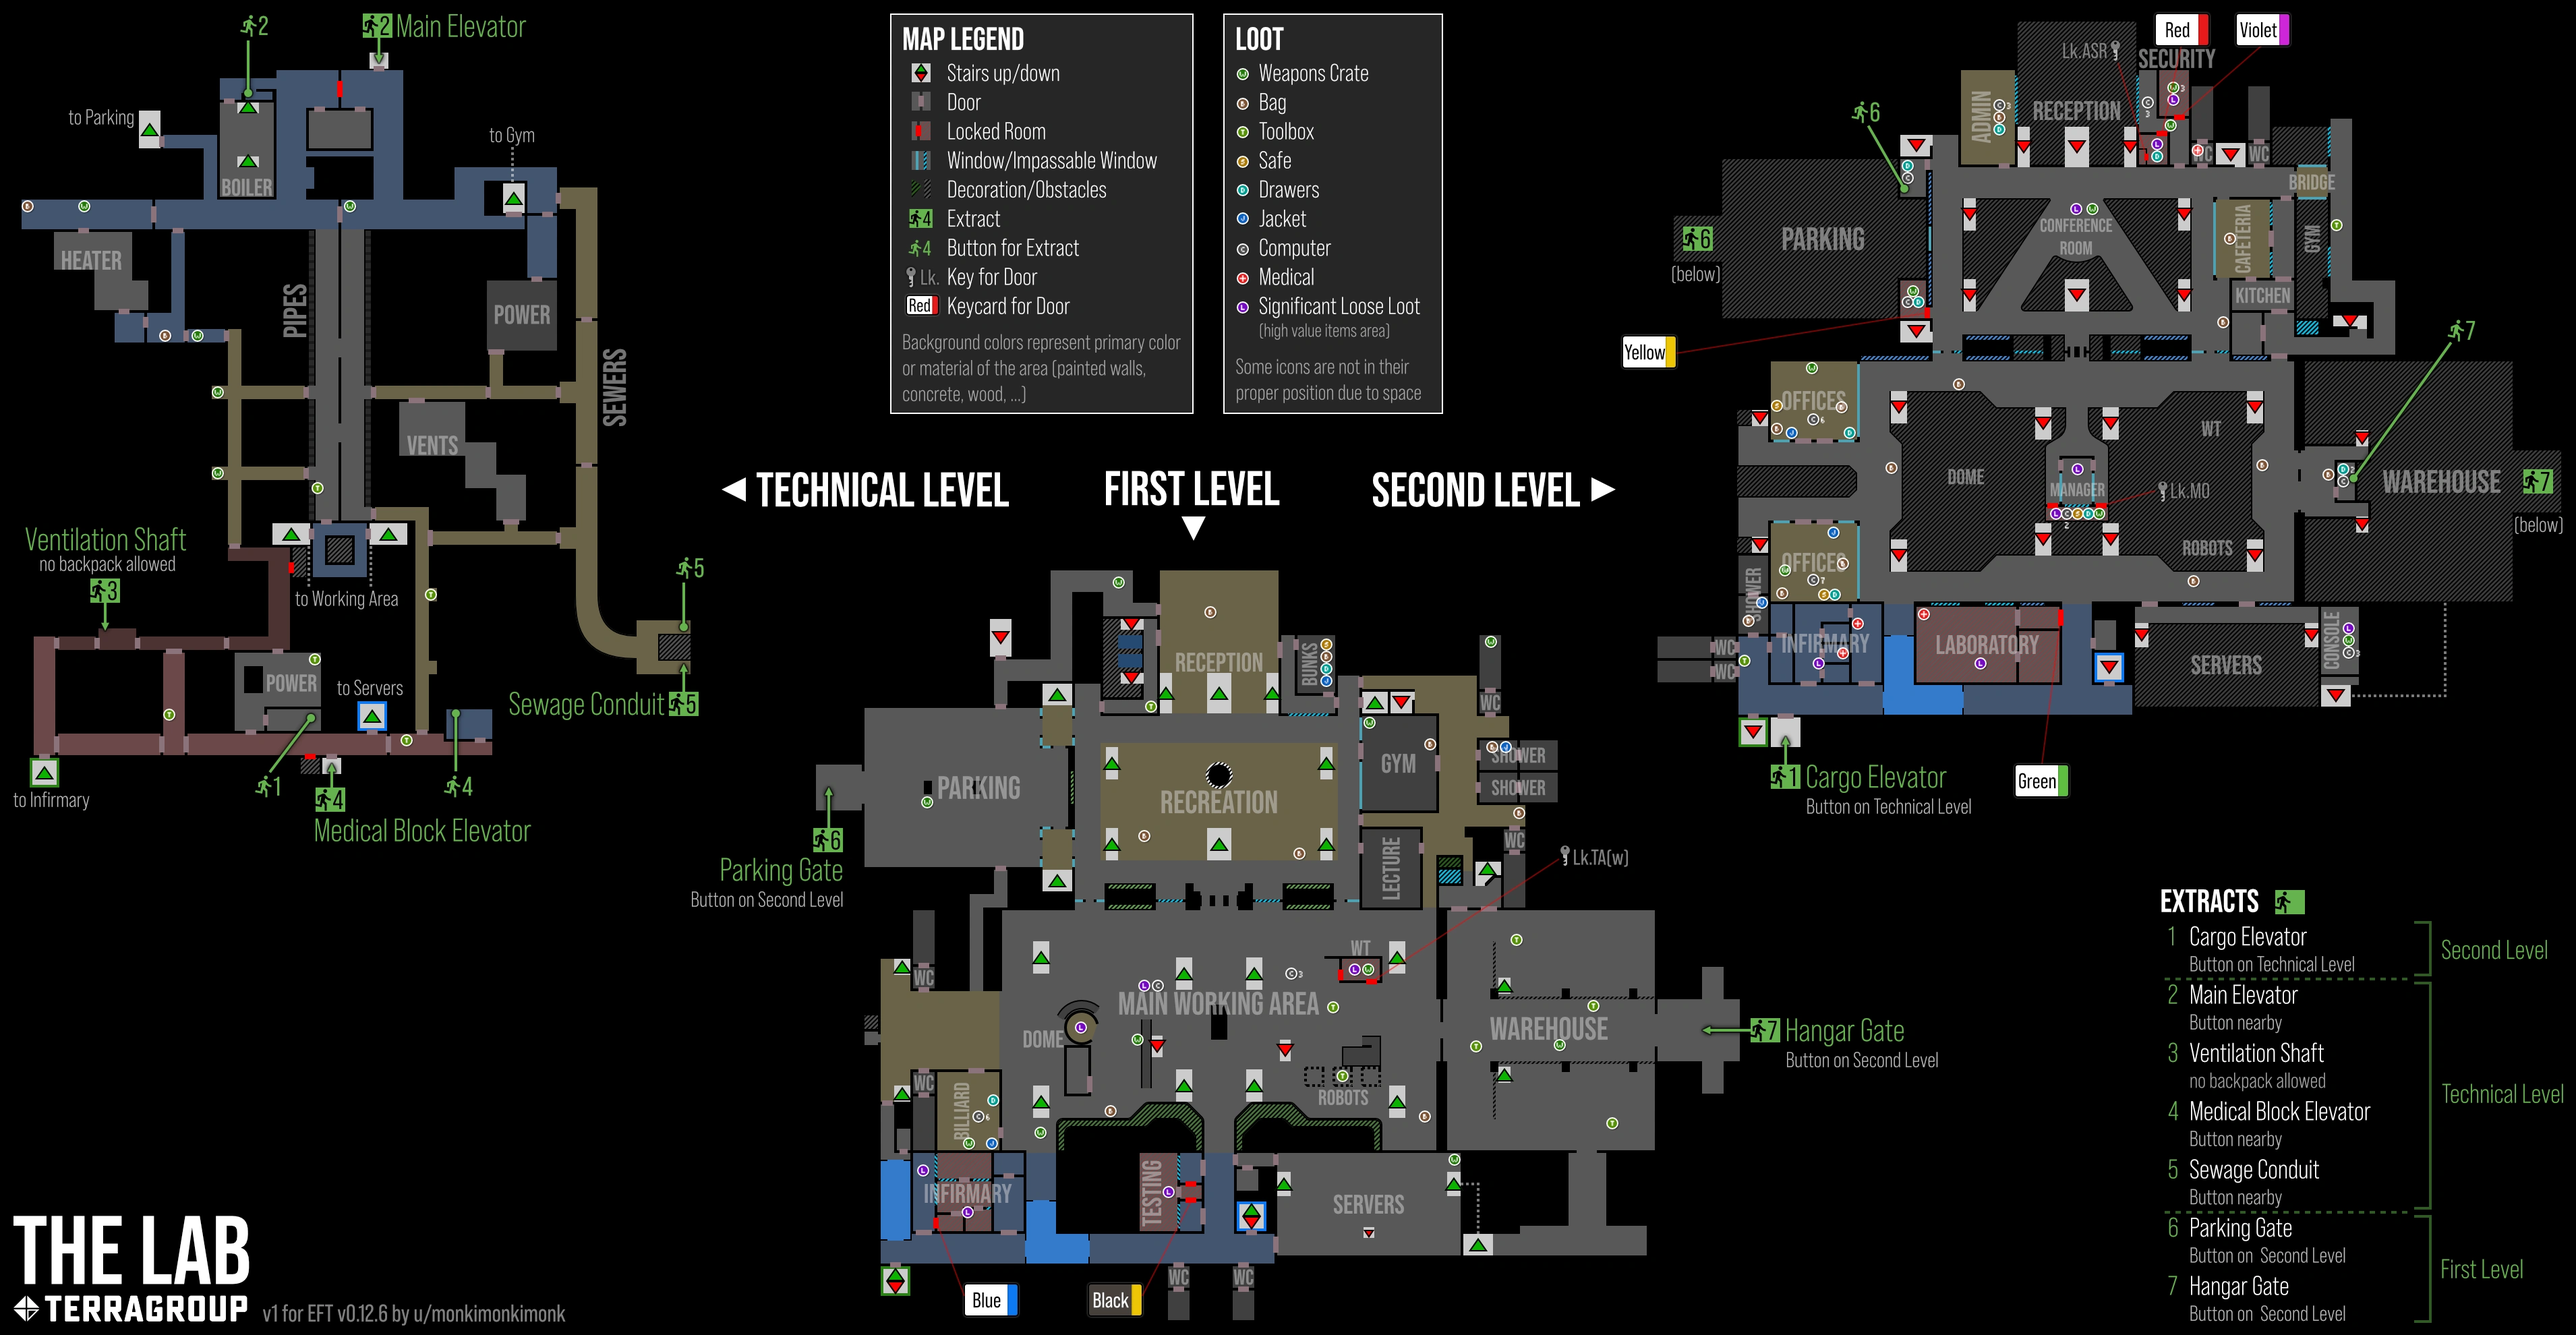
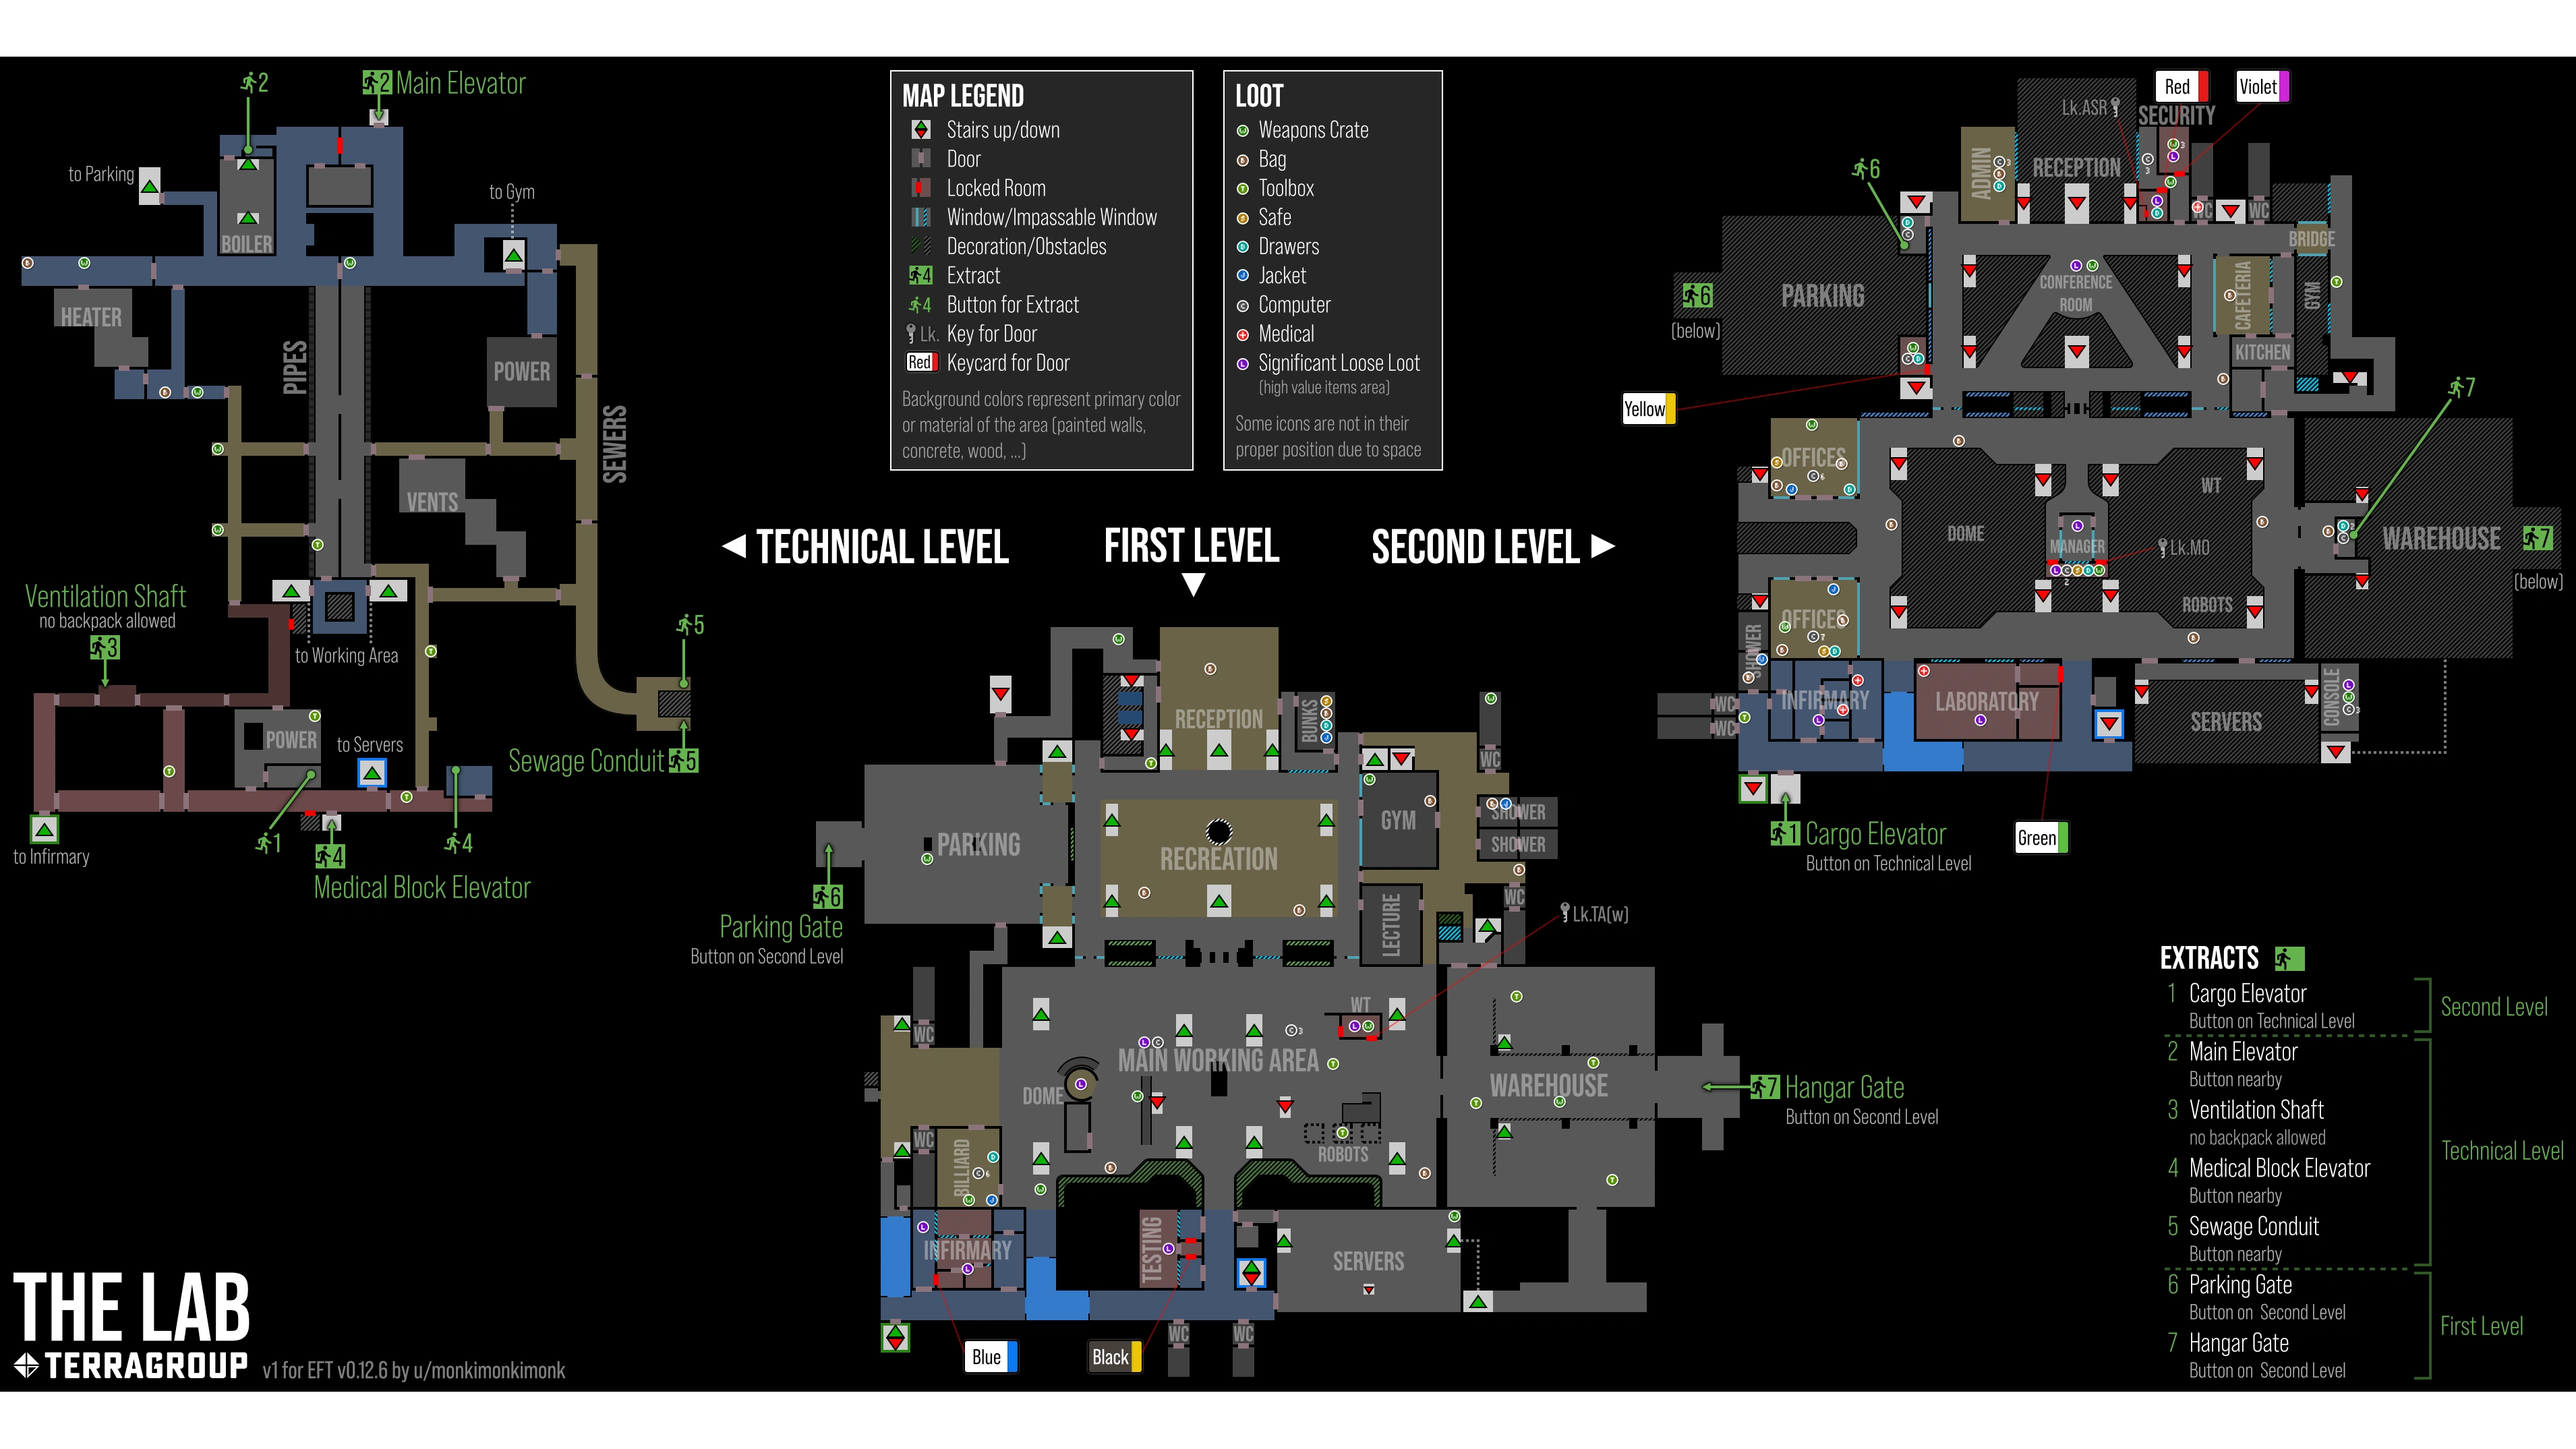
16:9 Update
Resized images to 16:9
Removed 0.95 canvas scaling (fits fullscreen)

diff --git a/room.html b/room.html
@@ -19,7 +19,7 @@
     <link rel="stylesheet" href="https://cdnjs.cloudflare.com/ajax/libs/font-awesome/5.15.2/css/all.min.css" integrity="sha512-HK5fgLBL+xu6dm/Ii3z4xhlSUyZgTT9tuc/hSrtw6uzJOvgRr2a9jyxxT1ely+B+xFAmJKVSTbpM/CuL7qxO8w==" crossorigin="anonymous" />
 <body >
 <main style="display: none">
-    <div class="canvas-container" style="transform: scale(.95);transform-origin: 0 0;">
+    <div class="canvas-container" style="transform: scale(1);transform-origin: 0 0;">
         <canvas id="canvas" width="1920" height="1080"></canvas>
     </div>
 
